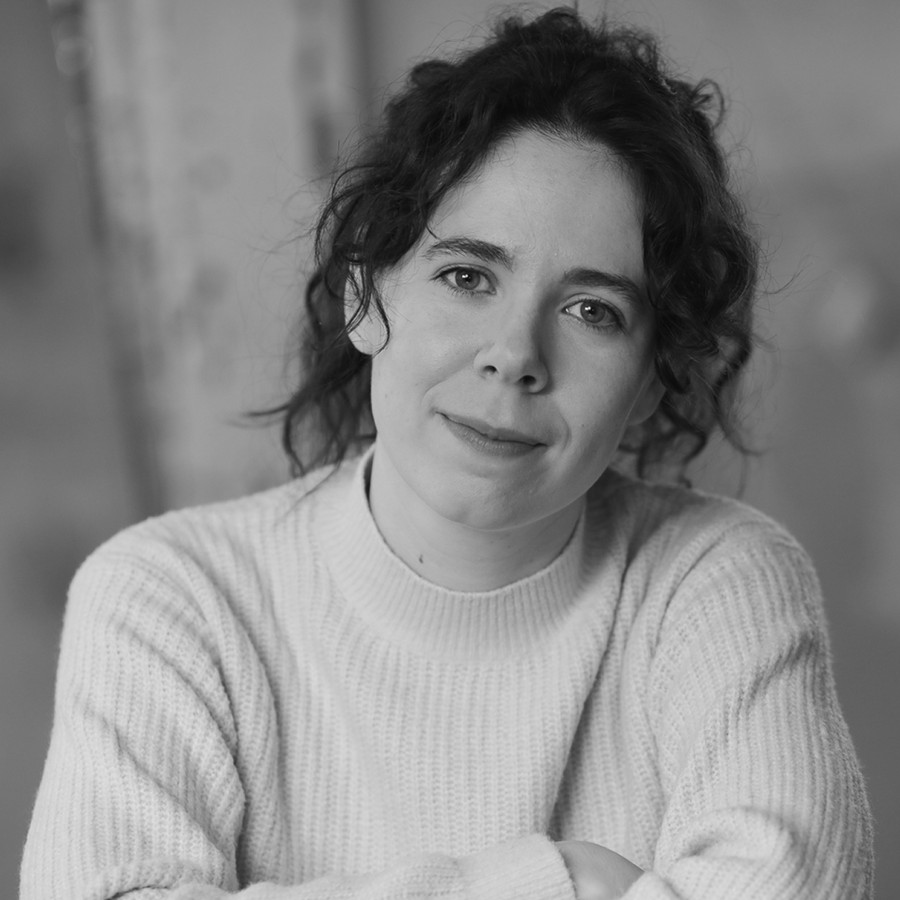
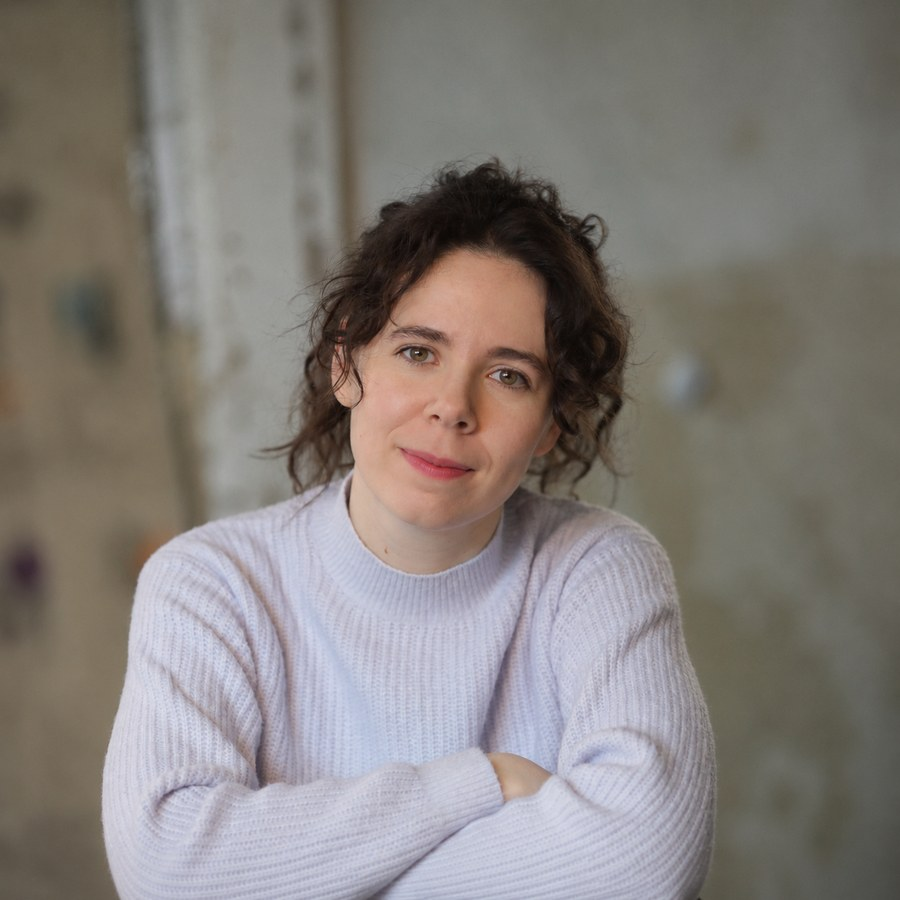
Remplace la photo de Madeleine Besançon

diff --git a/compagnie.html b/compagnie.html
@@ -77,7 +77,7 @@
           <p>Fondateur de la compagnie Mirage(s) en 2025. Met en scène et interprète <em>L'Amant</em> de Harold Pinter, et co-signe la mise en scène et l'interprétation d'<em>Une Mouche dans le Théâtre</em>.</p>
         </div>
         <div class="team-card">
-          <div class="photo"><img src="assets/img/team/madeleine-besancon.jpg?v=3" alt="Madeleine Besançon"></div>
+          <div class="photo"><img src="assets/img/team/madeleine-besancon.jpg?v=4" alt="Madeleine Besançon"></div>
           <h3>Madeleine Besançon</h3>
           <span class="role">Comédienne, Auteure, Compositrice</span>
           <p>Écrit le texte et compose la musique d'<em>Une Mouche dans le Théâtre</em>, qu'elle interprète et met en scène avec Grégoire Besançon.</p>
